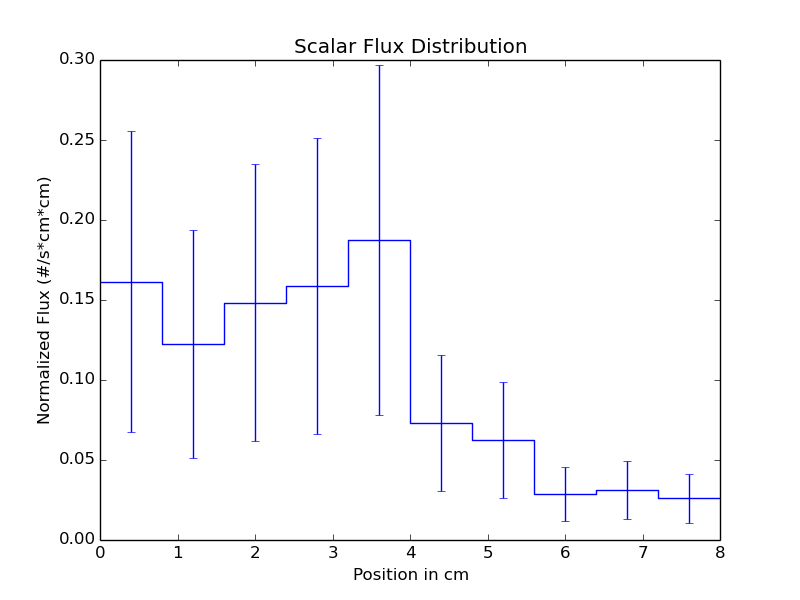
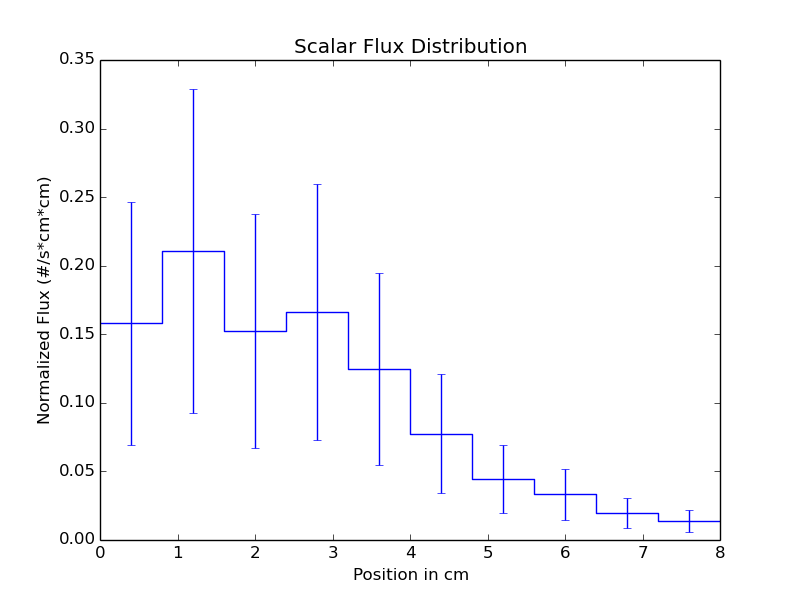
finished 3.py

diff --git a/HW4/3.py b/HW4/3.py
@@ -356,9 +356,9 @@ def flux_collision( col_array , abs_array , num_part , cell_width, \
 #Store error associated with the sum of the nn_phi array
     sum_error = math.sqrt( sum( np.square( phi[ 1 ] ) ) )
 #Calculate the normalized flux error
-    phi[ 1 ] = np.sqrt( ( np.square( phi[ 1 ] ) / sum( nn_phi ) ) \
+    phi[ 1 ] = np.sqrt( ( np.square( phi[ 1 ] ) / np.square( sum( nn_phi ) ) ) \
         + ( np.square( nn_phi ) / ( sum( nn_phi )**2 ) ) * \
-        sum_error )
+        sum_error**2 )
     cep()
     logging.debug( 'Normalized phi error array: ' )
     logging.debug( str( phi[ 1 ] ) )
@@ -406,13 +406,11 @@ def abs_half_cells( abs_array , num_part , cep , sep ):
    abs_report[ 1 , 0 ] = abs_e_l
    abs_report[ 1 , 1 ] = abs_e_r
 #Get abs prob
-   abs_report[ 2 ] = abs_report[ 0 ] / total_abs
+   abs_report[ 2 ] = abs_report[ 0 ] / float( num_part )
    logging.debug( 'Abs probability half cell array:' )
    logging.debug( str( abs_report[ 1 ] ) )
 #Store error for prob
-   abs_report[ 3 ] = np.sqrt( np.square( abs_report[ 1 ] ) / \
-    total_abs**2 + np.square( abs_report[ 0 ] ) / \
-    total_abs**4 * abs_s_e**2 )
+   abs_report[ 3 ] = abs_report[ 1 ] / float( num_part )
    logging.debug( 'Leaving the abs_half_cell function' )
    sep()
    return( abs_report )
